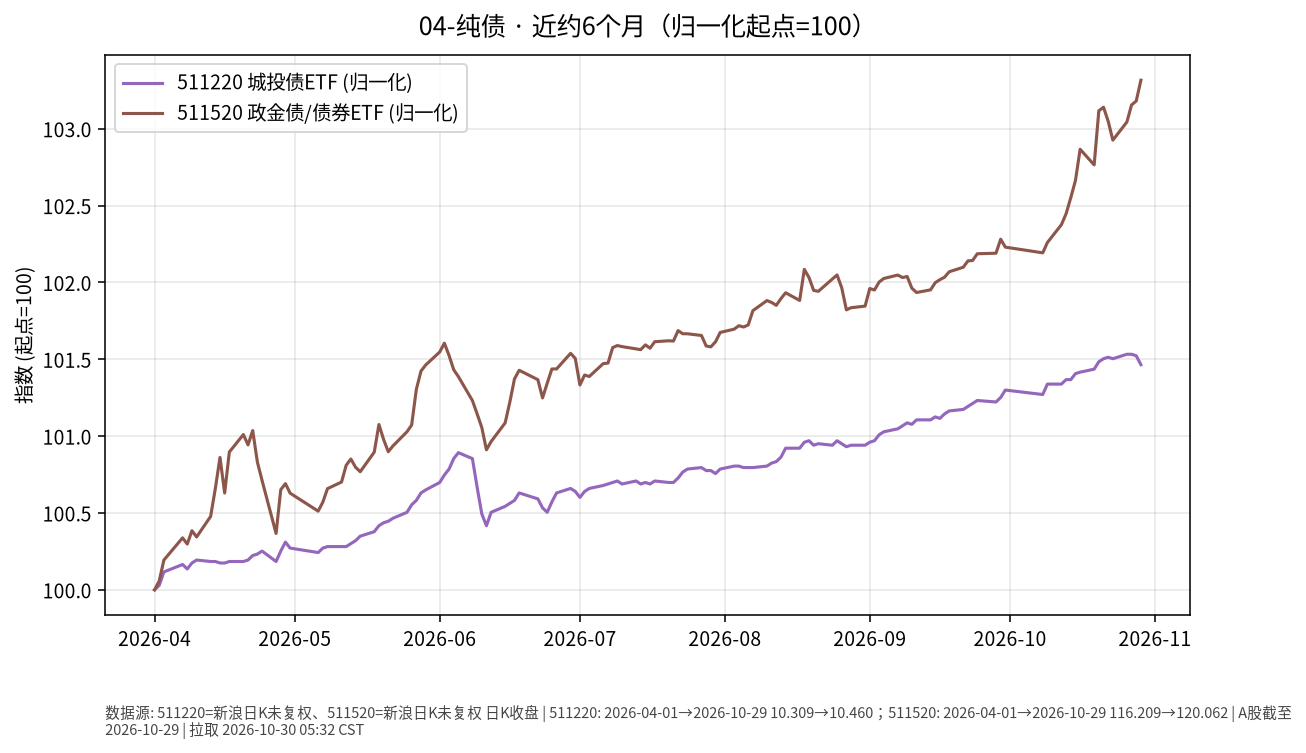
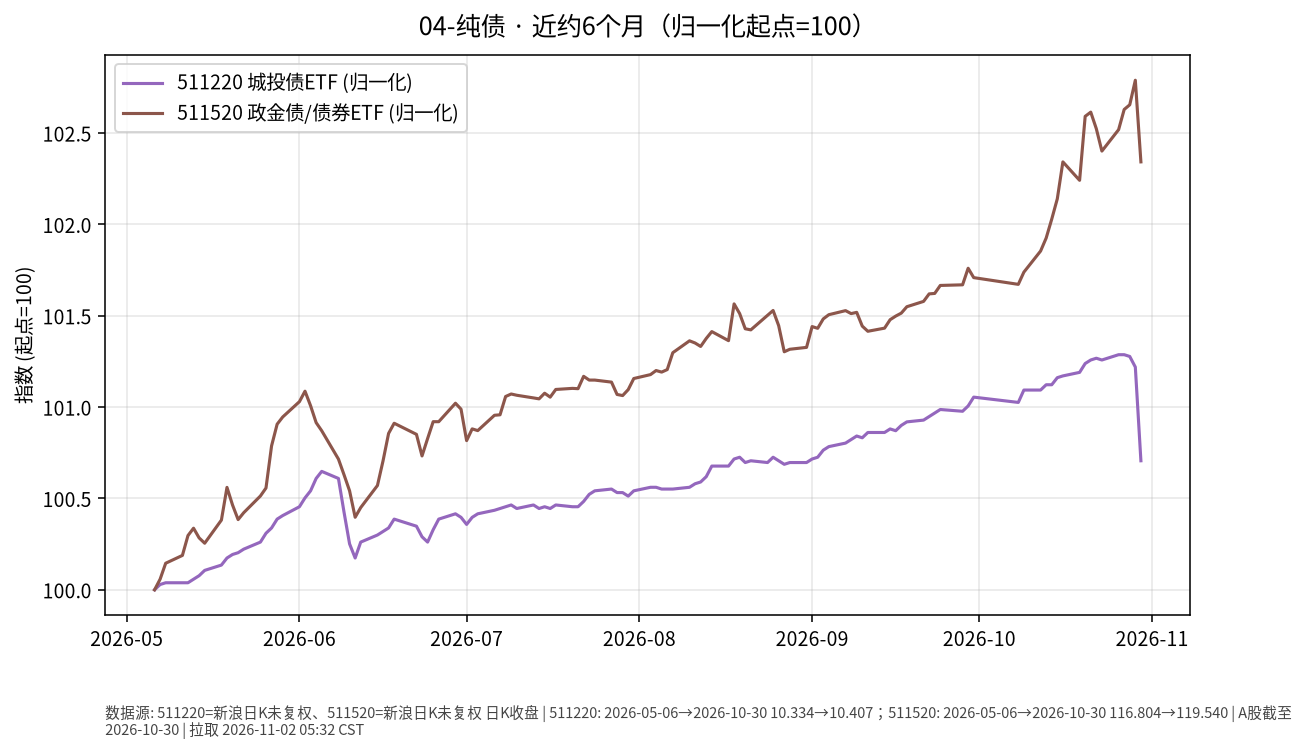
docs: 五门类投资日报 2026-11-02

diff --git a/01-黄金/日报/2026-11-02.md b/01-黄金/日报/2026-11-02.md
@@ -1,0 +1,30 @@
+# 黄金 · 日报 2026-11-02
+
+## 市场状态
+- **报告日**：2026-11-02（周一，Asia/Shanghai 盘前例程）
+- **数据截止交易日**：A 股/沪金/GLD 均为 **2026-10-30（周四）**。按新浪 A 股交易日历，**2026-10-31（周五）非交易日**（10-30 后下一开市日为 11-02）；本页数字不含周一盘中。**2026-11-02 为开市日**。
+- GLD 收盘 **355.78**，较前一交易日（10-29 的 368.57）**-3.47%**（akshare 日 K；yfinance/Yahoo 当日限流；未能可靠取得 10-31 美股收盘，故 GLD 截止写 10-30）。
+- 沪金 AU9999：**2026-10-30** 收盘 **854.76** 元/克（**-1.21%**）；黄金 ETF 518880 收 **8.115**（**-1.33%**）。
+
+## 关键数据
+| 标的 | 最近收盘日 | 收盘 | 日涨跌 | 近约6个月（归一起点日） | 区间涨跌 |
+|------|------------|------|--------|-------------------------|----------|
+| GLD | 2026-10-30 | 355.78 | -3.47% | 2026-05-01→2026-10-30 | -15.93% |
+| 518880 黄金ETF | 2026-10-30 | 8.115 | -1.33% | 2026-05-06→2026-10-30 | -17.12% |
+| AU9999（沪金） | 2026-10-30 | 854.76 | -1.21% | 2026-05-06→2026-10-30 | -16.77% |
+
+![近6个月走势](./charts/01-黄金-6m.png)
+
+## 简要解读
+- 美元计价黄金 ETF（GLD）在 **2026-10-30** 明显回落（约 **-3.47%**）；境内 518880 约 **-1.33%**，沪金 AU9999 约 **-1.21%**。近约半年归一后约 **-15.93%～-17.12%**。
+- 价格变动同时受美元、实际利率与风险情绪影响；本页只描述已发生报价，不推断下一步方向。
+
+## 关注点与风险
+- 汇率：境内投资者若以人民币计量，还需叠加美元兑人民币变动，账面涨跌可能与 GLD 美元涨跌不一致。
+- 波动：黄金阶段性回撤后波动仍可能放大；ETF 净值/溢价、交易时段与现货不完全同步。
+- 数据完整性：GLD 来自 akshare（至 2026-10-30）；10-31 美股收盘未能从公开源可靠取得。518880 新浪日 K；SGE Au99.99 完整。图中三条归一曲线均已叠加。A 股 10-31 按日历休市。
+
+## 来源与时间
+- GLD：akshare `stock_us_daily`（至 2026-10-30）；yfinance/Yahoo 限流
+- 518880：新浪日 K；AU9999：上海金交所 Dailyhq
+- 图表：Python matplotlib，收盘价归一到起点=100（图窗自 2026-05-01 起）；拉取约 2026-11-02 05:32 Asia/Shanghai

diff --git a/03-国债/日报/2026-11-02.md b/03-国债/日报/2026-11-02.md
@@ -1,0 +1,29 @@
+# 国债 · 日报 2026-11-02
+
+## 市场状态
+- **报告日**：2026-11-02；**数据截止交易日**：**2026-10-30**（10-31 非 A 股交易日）。
+- 国债 ETF 511010 收 **141.123**，日涨跌 **-0.115%**。
+- 中债国债收益率曲线 **10 年期** 2026-10-30 报 **1.6500%**，较上一交易日（2026-10-29 的 1.6233%）约 **+2.67 BP**（akshare `bond_zh_us_rate`）。
+- **提醒**：利率上行（曲线上移）通常对应既有国债价格承压；图中 ETF 净值涨 ≠ 收益率涨。**利率↑线↑≠债价涨**。
+
+## 关键数据
+| 标的 | 收盘日 | 收盘/收益率 | 日变化 | 约6个月 | 区间 |
+|------|--------|-------------|--------|---------|------|
+| 511010 | 2026-10-30 | 141.123 | -0.115% | 2026-05-06→2026-10-30 | +0.22% |
+| 中债10Y国债收益率 | 2026-10-30 | 1.6500% | 约+2.67 BP | 2026-05-06→2026-10-30 | 约 -11.54 BP（akshare 序列） |
+
+![近6个月走势](./charts/03-国债-6m.png)
+
+## 简要解读
+- 511010 近半年归一涨跌约 **+0.22%**，路径相对平缓；2026-10-30 微跌，同时 10Y 收益率较前一日上行约 2.67 BP（利率↑对存量债价偏压制，与 ETF 同日微跌方向一致，但单日仍可能受供需/折溢价影响）。
+- 久期越长，对收益率变化越敏感；本页只记录 ETF 收盘与曲线点位。图中右轴叠加中国10Y收益率日序。
+
+## 关注点与风险
+- 利率风险：收益率上行 → 债券市价下行。
+- 通胀预期、货币政策与供需（供给放量等）都会改变曲线形态。
+- 收益率序列来自公开曲线汇总，与 ETF 交易价时间戳不完全同步。
+
+## 来源与时间
+- 511010：新浪日 K；截止 2026-10-30
+- 收益率：akshare `bond_zh_us_rate`（2026-10-30，10Y=1.6500%）
+- 图表：matplotlib，ETF 收盘归一=100，中国10Y 收益率右轴；图注已写「利率↑线↑≠债价涨」

diff --git a/05-高股息/日报/2026-11-02.md b/05-高股息/日报/2026-11-02.md
@@ -1,0 +1,30 @@
+# 高股息 · 日报 2026-11-02
+
+## 市场状态
+- **报告日**：2026-11-02；**数据截止交易日**：**2026-10-30**（10-31 非 A 股交易日）。
+- 红利 ETF 510880 收 **3.460**（**+1.17%**）。
+- 招商银行 600036 收 **43.55**（**+1.42%**）；长江电力 600900 收 **29.74**（**-0.83%**）。
+- 红利 ETF、招行上行，长电下行；分红与价格涨跌是两回事（股息率随股价变动）。
+- **价格口径**：本页序列为交易所日 K **未复权**收盘（新浪）。
+
+## 关键数据
+| 标的 | 收盘日 | 收盘 | 日涨跌 | 约6个月 | 区间涨跌 |
+|------|--------|------|--------|---------|----------|
+| 510880 红利ETF | 2026-10-30 | 3.460 | +1.17% | 2026-05-06→2026-10-30 | +3.56% |
+| 600036 招商银行 | 2026-10-30 | 43.55 | +1.42% | 2026-05-06→2026-10-30 | +14.61% |
+| 600900 长江电力 | 2026-10-30 | 29.74 | -0.83% | 2026-05-06→2026-10-30 | +9.34% |
+
+![近6个月走势](./charts/05-高股息-6m.png)
+
+## 简要解读
+- 近半年归一（未复权）：510880 约 **+3.56%**，招行约 **+14.61%**，长电约 **+9.34%**（个股路径强于宽基红利 ETF，不代表未来）。
+- 2026-10-30 红利与招行上行、长电回落，属已发生的价格事实。
+
+## 关注点与风险
+- 银行与公用事业对利率、监管、来水/电价等基本面敏感；高股息不保证本金稳定。
+- 510880 成分与权重定期调整；个股与 ETF 走势可显著偏离。
+- 未复权序列在除权除息日会出现跳空，与前复权路径不一致属正常。
+
+## 来源与时间
+- 510880 / 600036 / 600900：新浪 CN_MarketData K 线（未复权）
+- 截止 2026-10-30；图表 matplotlib，起点=100；图注写明未复权

diff --git a/02-中短债/日报/2026-11-02.md b/02-中短债/日报/2026-11-02.md
@@ -1,0 +1,28 @@
+# 中短债 · 日报 2026-11-02
+
+## 市场状态
+- **报告日**：2026-11-02；**A 股数据截止交易日**：**2026-10-30**（周一盘前；10-31 按新浪交易日历非 A 股交易日）。交易日历：**2026-11-02 为开市日**。
+- 短融 ETF 511360 收 **114.124**（日涨跌 **+0.018%**）。
+- 159649（国开债 ETF 华安）收 **110.764**（日涨跌 **-0.062%**）。
+- 短端品种单日变动极小；仅作路径对照，非交易建议。
+
+## 关键数据
+| 标的 | 收盘日 | 收盘 | 日涨跌 | 约6个月区间 | 区间涨跌 |
+|------|--------|------|--------|-------------|----------|
+| 511360 短融ETF海富通 | 2026-10-30 | 114.124 | +0.018% | 2026-05-06→2026-10-30 | +0.64% |
+| 159649 国开债ETF华安 | 2026-10-30 | 110.764 | -0.062% | 2026-05-06→2026-10-30 | +0.99% |
+
+![近6个月走势](./charts/02-中短债-6m.png)
+
+## 简要解读
+- 两条曲线近半年均呈缓慢抬升（归一后约 **+0.64%** / **+0.99%**），单日波动接近于零，符合短久期利率品种特征。
+- 159649 跟踪国开债，久期与信用暴露通常高于纯短融；与 511360 并排只为对照路径，不暗示优劣。
+
+## 关注点与风险
+- 利率上行时净值可能回撤（即使票息仍为正）。
+- ETF 折溢价、流动性与跟踪误差；节假日后跳空可能出现。
+- 杠杆与加久期会放大波动——本报告不讨论、不鼓励此类操作。
+
+## 来源与时间
+- 新浪 CN_MarketData 日 K，截止 2026-10-30
+- 图表：matplotlib，起点归一=100；拉取约 2026-11-02 05:32 Asia/Shanghai

diff --git a/04-纯债/日报/2026-11-02.md b/04-纯债/日报/2026-11-02.md
@@ -1,0 +1,28 @@
+# 纯债 · 日报 2026-11-02
+
+## 市场状态
+- **报告日**：2026-11-02；**数据截止交易日**：**2026-10-30**。
+- 城投债 ETF 511220 收 **10.407**（**-0.507%**）。
+- 政金债/债券 ETF 511520 收 **119.540**（**-0.435%**）。
+- 两者同日均下行；近半年仍呈缓慢抬升。
+
+## 关键数据
+| 标的 | 收盘日 | 收盘 | 日涨跌 | 约6个月区间 | 区间涨跌 |
+|------|--------|------|--------|-------------|----------|
+| 511220 城投债ETF海富通 | 2026-10-30 | 10.407 | -0.507% | 2026-05-06→2026-10-30 | +0.71% |
+| 511520 政金债ETF富国 | 2026-10-30 | 119.540 | -0.435% | 2026-05-06→2026-10-30 | +2.34% |
+
+![近6个月走势](./charts/04-纯债-6m.png)
+
+## 简要解读
+- 近半年归一：511220 约 **+0.71%**，511520 约 **+2.34%**；2026-10-30 两者均下行。
+- 城投债含信用利差暴露，政金债更偏利率；并排对照路径，不评价孰优。
+
+## 关注点与风险
+- 信用利差扩张时，城投/信用类净值回撤可能大于利率债。
+- 利率上行同样压制久期更长的品种。
+- ETF 折溢价与跟踪误差；本报告不讨论杠杆与下沉信用。
+
+## 来源与时间
+- 新浪 CN_MarketData 日 K，截止 2026-10-30
+- 图表：matplotlib，起点归一=100

diff --git a/notes/invest-knowledge-100/今日一点/2026-11-02-day06.md b/notes/invest-knowledge-100/今日一点/2026-11-02-day06.md
@@ -1,0 +1,5 @@
+# 今日一点 · Day 6/100 · 《时间与风险匹配》
+
+**结论：** 钱要用的年限越短，越不该碰长久期债券或股票——先把「这笔钱什么时候可能要用」说清楚，再谈放哪一类资产。
+
+**机制：** 短期就要动用的钱，最怕被迫在价格低点变现：长久期债对利率一敏感就会晃，股票回撤更大。所以应急金与一两年内要用的钱，更适合停在活钱缓冲或短久期利率路径上；只有闲置年限够长，才谈得上承受债仓的利率波动，以及更往后的股票卫星。举例：明年装修的钱，就不该和十年养老金放进同一风险桶。这和债底仓主线一致——先用时间匹配管住不可逆损失；股票卫星排在路径清晰、动用年限够长之后再划拨。今天只记匹配原则，不谈买卖。

diff --git a/notes/invest-knowledge-100/progress.md b/notes/invest-knowledge-100/progress.md
@@ -1,4 +1,4 @@
-next_day: 6
+next_day: 7
 started: 2026-10-26
-last_completed_day: 5
-last_date: 2026-10-30
+last_completed_day: 6
+last_date: 2026-11-02
